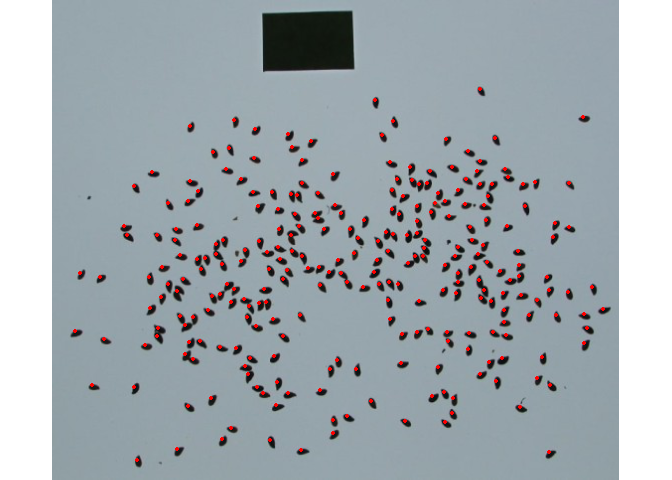
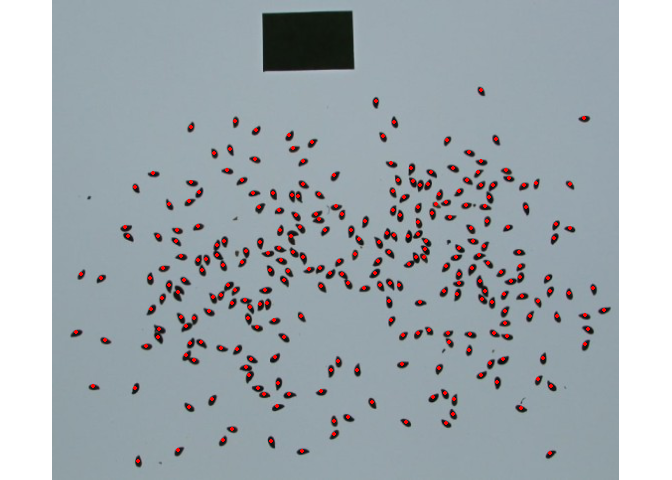
update repo

diff --git a/README.md b/README.md
@@ -49,7 +49,7 @@ The development version of `pliman` can be installed from
 [pak](https://github.com/r-lib/pak) package:
 
 ``` r
-pak::pkg_install("TiagoOlivoto/pliman")
+pak::pkg_install("NEPEM-UFSC/pliman")
 ```
 
 *Note*: If you are a Windows user, you should also first download and
@@ -292,7 +292,7 @@ measure_disease(img = img,
 ``` r
 sev$severity
 #    healthy symptomatic
-# 1 92.62721    7.372791
+# 1 92.63213    7.367868
 ```
 
 ## Interactive disease measurements
@@ -327,7 +327,7 @@ Please, support this project by citing it in your publications!
   789-798. doi:10.1111/2041-210X.13803
   <https://doi.org/10.1111/2041-210X.13803>.
 
-Uma entrada BibTeX para usuários(as) de LaTeX é
+A BibTeX entry for LaTeX users is
 
   @Article{,
     title = {Lights, camera, pliman! An R package for plant image analysis},
